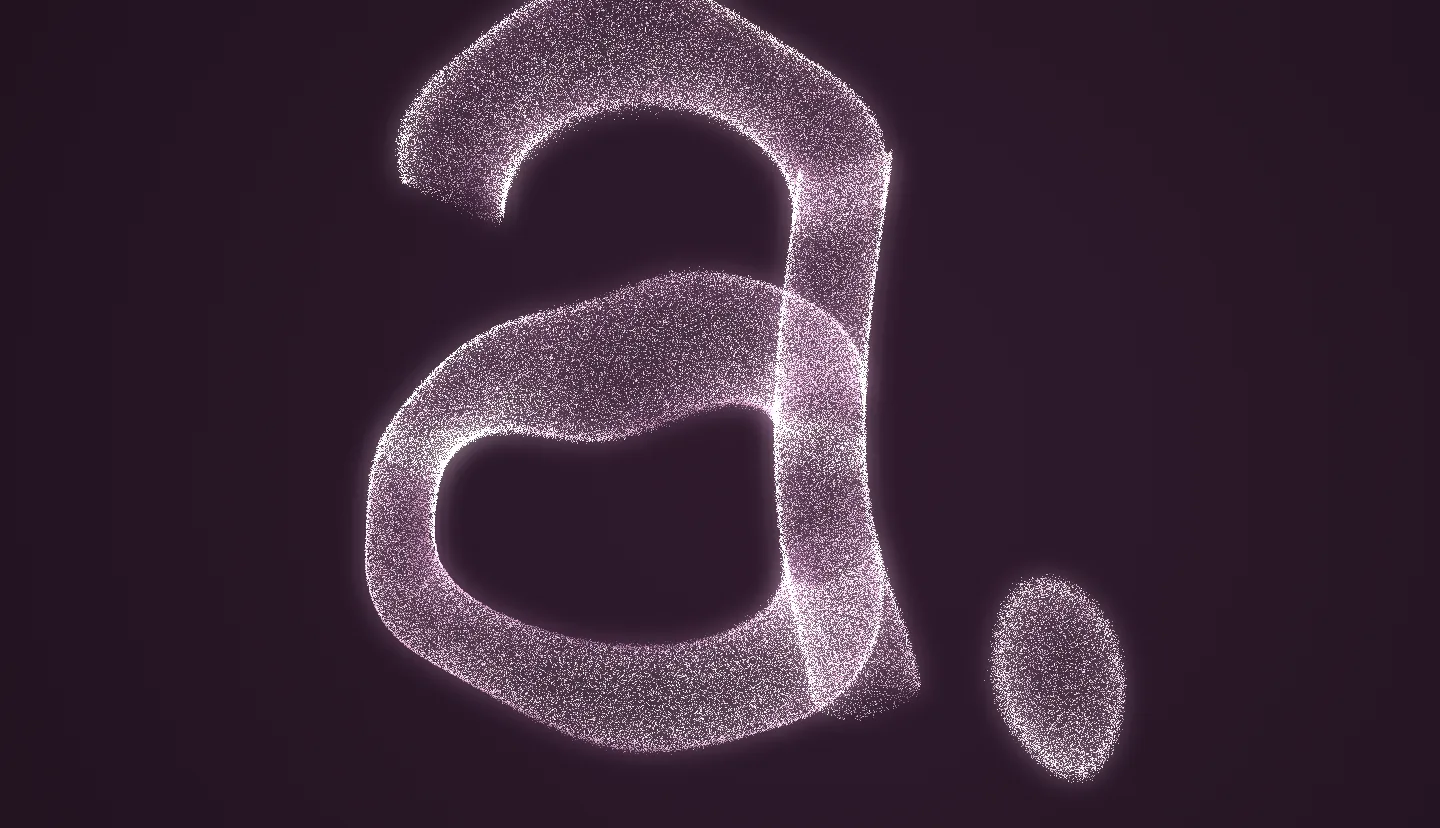
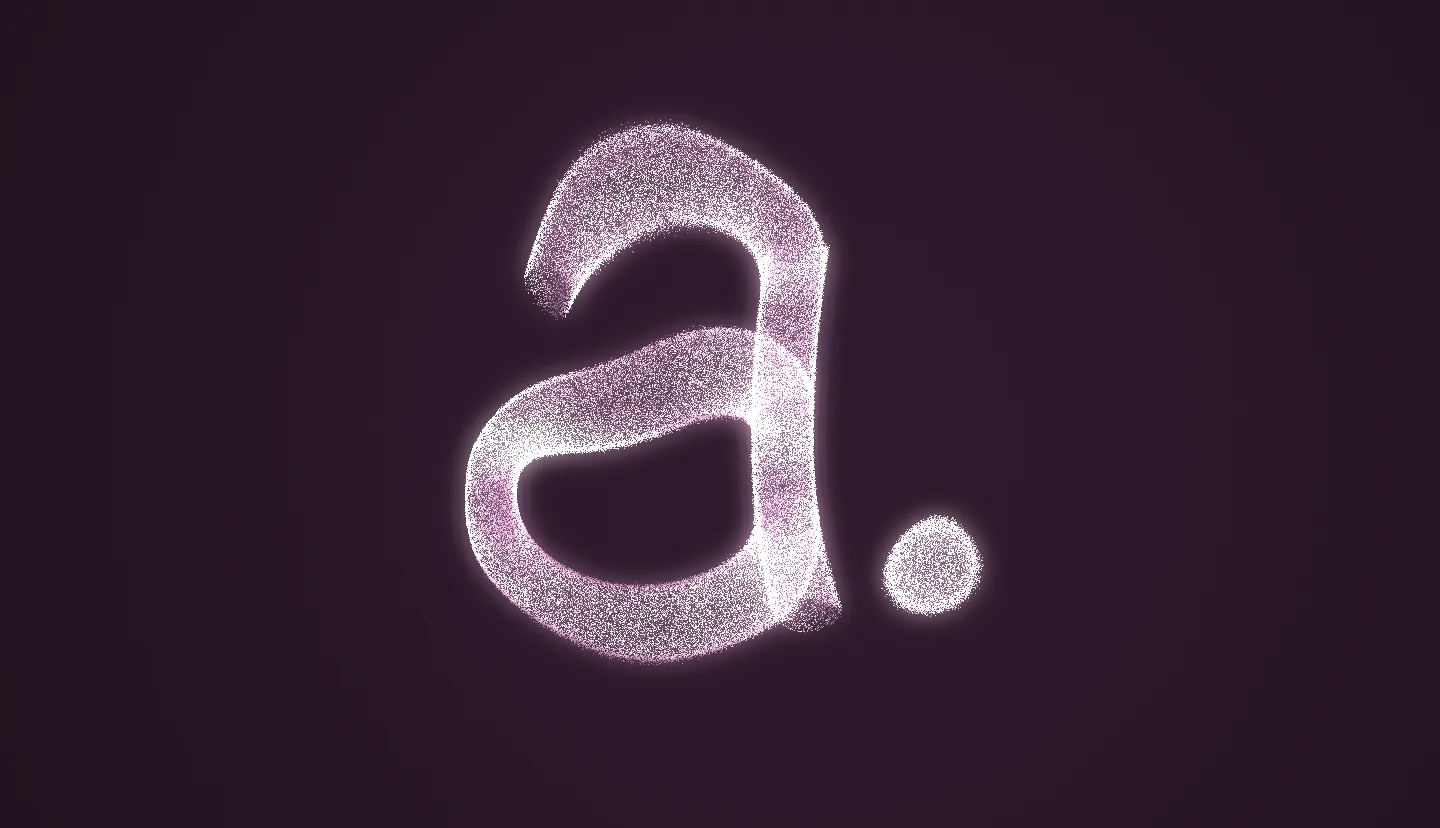
Particle Studio: stable orbit field, warm start, WebM by frame request, fallback layout
The orbit field relaxes toward the orbital speed instead of forcing it, so a galaxy holds at any step; short-lived emitters warm up
for five seconds before they show, so ink is a stream and not a blob; the WebM is recorded by requesting a frame after each draw
(VP8 first); the page's eyebrow is its h1; the no-WebGL2 page keeps its one column and sentence-case chip; the mark, Auckland,
murmuration and ink presets are reframed and retuned; the still is re-rendered.

Claude-Session: https://claude.ai/code/session_013PEcKa8wt7d7R9rwsuGB3T

Changed region(s): [[0.25, 0.0, 0.7812, 0.9662]]

diff --git a/instruments/particle-studio/main.js b/instruments/particle-studio/main.js
@@ -62,7 +62,7 @@ async function boot() {
     curTargets = null; setMorph(true);
     emitAnchors = ef.anchors;
     // a warm start when the emitters were reset: short-lived particles are spread along their paths, not one blob at the spout
-    if (warm && s.emitters.some((e) => e.life)) for (let i = 0; i < 70; i++) sim.step(1 / 30);
+    if (warm && s.emitters.some((e) => e.life)) for (let i = 0; i < 150; i++) sim.step(1 / 30);
     api.N = sim.N; $("#ps-stat-budget").textContent = s.budget === "auto" ? `auto · ${fmtN(sim.N)}` : `fixed · ${fmtN(sim.N)}`;
     if (reduce || paused) settle();
     placeHandles();
@@ -288,7 +288,8 @@ async function boot() {
   $("#x-copy-code").addEventListener("click", async () => { try { await navigator.clipboard.writeText(code); toast("Code copied"); } catch { toast("Could not reach the clipboard"); } });
   $("#x-dl-code").addEventListener("click", () => X.download(new Blob([code], { type: "text/javascript" }), `${X.slug(spec.name)}.design.js`));
   $$("[data-png]").forEach((b) => b.addEventListener("click", () => { const k = +b.dataset.png; placeCamera(sim.time); const cv = sim.still(k); cv.toBlob((blob) => { X.download(blob, `${X.slug(spec.name)}@${k}x.png`); toast(`PNG ${cv.width}×${cv.height} saved`); }, "image/png"); }));
-  $$("[data-webm]").forEach((b) => b.addEventListener("click", async () => { const s = +b.dataset.webm, rec = $("#x-rec"); rec.hidden = false; dlg.close(); try { const blob = await X.recordCanvas(canvas, s, (k) => (rec.textContent = `recording ${Math.round(k * s)} / ${s} s`)); X.download(blob, `${X.slug(spec.name)}-${s}s.webm`); toast("WebM saved"); } catch (e) { toast(e.message); } rec.hidden = true; }));
+  $$("[data-webm]").forEach((b) => b.addEventListener("click", async () => { const s = +b.dataset.webm, rec = $("#x-rec"); rec.hidden = false; dlg.close(); try { const blob = await X.recordCanvas(canvas, s, { onTick: (k) => (rec.textContent = `recording ${Math.round(k * s)} / ${s} s`), onFrame: (fn) => (afterDraw = fn) }); X.download(blob, `${X.slug(spec.name)}-${s}s.webm`); toast(`WebM saved (${(blob.size / 1e6).toFixed(1)} MB)`); } catch (e) { toast(e.message); } afterDraw = null; rec.hidden = true; }));
+  let afterDraw = null;
   let baked = { a: null, b: null };
   async function bake(slot) {
     const count = +$("#x-count").value; placeCamera(sim.time);
@@ -321,10 +322,11 @@ async function boot() {
     const dt = Math.min(1 / 30, Math.max(0.001, (now - last) / 1000)); last = now; frames++;   // a slow device slows the system down; it never blows up
     if (now - fpsT > 1000) { api.fps = Math.round(frames * 1000 / (now - fpsT)); $("#ps-stat-fps").textContent = paused || reduce ? "still" : `${api.fps} fps`; $("#ps-stat-n").textContent = `${fmtN(aliveEstimate())} points`; frames = 0; fpsT = now; }
     if (document.hidden || !spec) return;
+    if ((paused || reduce) && afterDraw) { sim.draw(); afterDraw(); }
     if (!paused && !reduce) {
       if (tl.playing && !tl.scrubbing) { tl.t += dt / spec.timeline.seconds; if (tl.t >= 1) tl.t = spec.timeline.loop ? tl.t - 1 : 1; scrub.value = Math.round(tl.t * 1000); }
       timeOut.value = `${(tl.t * spec.timeline.seconds).toFixed(1)} s`;
-      setMorph(); sim.step(dt); placeCamera(sim.time); sim.draw(); placeHandles();
+      setMorph(); sim.step(dt); placeCamera(sim.time); sim.draw(); placeHandles(); afterDraw?.();
       // the budget follows the frame time: halve when slow, climb when there is room (auto only, never under a fixed budget)
       ema = ema * 0.92 + dt * 1000 * 0.08;
       if (spec.budget === "auto" && !fixed && now - lastChange > 4000 && now > 5000) {
@@ -346,6 +348,7 @@ async function boot() {
   else if (shared) setSpec(shared, { reset: true });
   else setSpec(clone((presetById(params.get("preset")) || PRESETS[0]).spec), { reset: true });
   addEventListener("hashchange", async () => { const s = X.seedFromHash(location.hash); if (s != null) return setSpec(surprise(s), { reset: true }); const sh = await X.decodeShare(location.hash); if (sh) setSpec(sh, { reset: true }); });
+  api.seek = (t) => { tl.t = Math.min(1, Math.max(0, t)); scrub.value = Math.round(tl.t * 1000); setMorph(); if (paused || reduce) settle(150); };
   api.loadPreset = loadPreset; api.loadSurprise = loadSurprise; api.setCode = (c) => { editor.set(c); applyCode(c, true); }; api.ready = true;
   root.classList.add("ps-on");
   requestAnimationFrame(frame);

diff --git a/instruments/particle-studio/presets.js b/instruments/particle-studio/presets.js
@@ -14,7 +14,7 @@ export const PRESETS = [
     spec: { name: "Auckland ring", seed: 21, budget: "auto",
       emitters: [{ shape: { type: "ring", radius: 0.95, at: [0, 0.25, 0], thickness: 0.05, tilt: 0 }, jitter: 0.01 }],
       fields: [{ type: "attract", strength: 2.6, snap: 0.8 }, { type: "drag", amount: 1.2 }, { type: "curl", strength: 0.08, scale: 2.2, speed: 0.15 }, { type: "scan", speed: 0.08, width: 0.03, boost: 0.55, lift: 0 }],
-      look: look({ bloom: 0.62, size: 0.9 }), camera: cam({ distance: 4.1, height: 0.5, pitch: 0.66, path: "orbit", drift: 0.05 }),
+      look: look({ bloom: 0.62, size: 0.9 }), camera: cam({ distance: 4.1, height: 0.12, pitch: 0.66, path: "orbit", drift: 0.05 }),
       timeline: { seconds: 14, loop: 1, keys: [{ at: 0, target: { type: "ring", radius: 0.95, at: [0, 0.25, 0], thickness: 0.05, tilt: 0 } }, { at: 0.5, target: { type: "auckland", size: 2.1 } }] } } },
   { id: "galaxy", title: "Galaxy", line: "Three arms of stars turn about a bright core, slowly, with a few sparkles.",
     spec: { name: "Galaxy", seed: 1977, budget: "auto",
@@ -24,14 +24,14 @@ export const PRESETS = [
       timeline: { seconds: 20, loop: 1, keys: [{ at: 0, target: null }] } } },
   { id: "ink", title: "Ink in water", line: "A drop of ink unfolds in slow curling water, leaving trails.",
     spec: { name: "Ink in water", seed: 404, budget: "auto",
-      emitters: [{ shape: { type: "point", at: [0, 1.05, 0], spread: 0.05 }, life: [3, 7], jitter: 0.02, speed: 0.35 }],
-      fields: [{ type: "curl", strength: 0.55, scale: 1.6, speed: 0.12 }, { type: "gravity", dir: [0, -1, 0], strength: 0.08 }, { type: "drag", amount: 0.9 }, { type: "contain", radius: 1.6, softness: 0.6 }],
+      emitters: [{ shape: { type: "point", at: [0, 0.95, 0], spread: 0.18 }, rate: 0.7, life: [4, 9], jitter: 0.08, speed: 0.18 }],
+      fields: [{ type: "curl", strength: 0.7, scale: 1.4, speed: 0.1 }, { type: "gravity", dir: [0, -1, 0], strength: 0.07 }, { type: "drag", amount: 0.8 }, { type: "contain", radius: 1.6, softness: 0.6 }],
       look: look({ bloom: 0.7, trails: 0.78, size: 0.9, exposure: 1.05 }), camera: cam({ distance: 3.3, height: 0.5, path: "none", drift: 0.1 }),
       timeline: { seconds: 12, loop: 1, keys: [{ at: 0, target: null }] } } },
   { id: "murmuration", title: "Murmuration", line: "A flock that turns as one, on a coarse grid of neighbours (a light sketch of boids, not a full one).",
     spec: { name: "Murmuration", seed: 88, budget: 65536,
-      emitters: [{ shape: { type: "sphere", radius: 0.5, at: [0, 0.7, 0], shell: 0 }, speed: 0.4 }],
-      fields: [{ type: "flock", cohesion: 0.7, alignment: 1.1, separation: 1.3, radius: 0.1, speed: 0.75 }, { type: "curl", strength: 0.18, scale: 0.8, speed: 0.1 }, { type: "contain", radius: 1.3, softness: 0.5 }, { type: "well", at: [0, 0.65, 0], strength: 0.25, radius: 1.2 }],
+      emitters: [{ shape: { type: "sphere", radius: 0.6, at: [0, 0.6, 0], shell: 0 }, speed: 0.3 }],
+      fields: [{ type: "flock", cohesion: 0.5, alignment: 0.8, separation: 1.4, radius: 0.1, speed: 0.7 }, { type: "curl", strength: 0.22, scale: 0.7, speed: 0.12 }, { type: "turbulence", strength: 0.04, scale: 3 }, { type: "contain", radius: 1.25, softness: 0.5 }, { type: "well", at: [0, 0.6, 0], strength: 0.12, radius: 1.2 }],
       look: look({ bloom: 0.6, size: 1.25, sparkle: 0.015, trails: 0.3 }), camera: cam({ distance: 3.6, height: 0.6, path: "sweep", drift: 0.15 }),
       timeline: { seconds: 16, loop: 1, keys: [{ at: 0, target: null }] } } },
   { id: "fabric", title: "Fabric in wind", line: "A sheet pinned to its rest, lifted and rippled by a gusting wind.",

diff --git a/instruments/particle-studio/exporter.js b/instruments/particle-studio/exporter.js
@@ -101,13 +101,17 @@ export async function decodeShare(hash) {
 export const seedFromHash = (hash) => { const m = /(?:^|[#&])seed=(\d+)/.exec(hash); return m ? +m[1] : null; };
 
 // --- a short WebM of the canvas (MediaRecorder); resolves to a Blob
-export function recordCanvas(canvas, seconds, onTick) {
+// Frames are requested by hand after each draw (captureStream(0) + requestFrame), so the recording follows the real frame loop
+// whatever the browser decides a WebGL canvas has changed. `onFrame` receives the function to call after each draw.
+export function recordCanvas(canvas, seconds, { onTick, onFrame } = {}) {
   return new Promise((resolve, reject) => {
     if (!("MediaRecorder" in window) || !canvas.captureStream) return reject(new Error("This browser cannot record a canvas (MediaRecorder is missing)."));
-    const stream = canvas.captureStream(30), mime = ["video/webm;codecs=vp9", "video/webm;codecs=vp8", "video/webm"].find((m) => MediaRecorder.isTypeSupported(m)) || "";
-    const rec = new MediaRecorder(stream, { mimeType: mime || undefined, videoBitsPerSecond: 12_000_000 }), chunks = [];
+    const stream = canvas.captureStream(0), track = stream.getVideoTracks()[0], mime = ["video/webm;codecs=vp8", "video/webm;codecs=vp9", "video/webm"].find((m) => MediaRecorder.isTypeSupported(m)) || "";
+    const rec = new MediaRecorder(stream, { mimeType: mime || undefined, videoBitsPerSecond: 10_000_000 }), chunks = [];
     rec.ondataavailable = (e) => e.data.size && chunks.push(e.data); rec.onerror = (e) => reject(e.error || new Error("recording failed"));
-    rec.onstop = () => resolve(new Blob(chunks, { type: mime || "video/webm" }));
-    rec.start(250); const t0 = performance.now(); const tick = () => { const k = Math.min(1, (performance.now() - t0) / (seconds * 1000)); onTick?.(k); if (k < 1) requestAnimationFrame(tick); else rec.stop(); }; tick();
+    rec.onstop = () => { onFrame?.(null); track.stop(); resolve(new Blob(chunks, { type: mime || "video/webm" })); };
+    const request = () => { try { track.requestFrame?.(); } catch {} };
+    rec.start(250); onFrame?.(request); request();
+    const t0 = performance.now(); const tick = () => { const k = Math.min(1, (performance.now() - t0) / (seconds * 1000)); onTick?.(k); if (k < 1) requestAnimationFrame(tick); else rec.stop(); }; tick();
   });
 }

diff --git a/instruments/particle-studio/studio.css b/instruments/particle-studio/studio.css
@@ -8,6 +8,7 @@ body.site-v2 { display: flex; flex-direction: column; min-height: 100dvh; backgr
 .sr-only { position: absolute; width: 1px; height: 1px; overflow: hidden; clip: rect(0 0 0 0); white-space: nowrap; }
 
 .ps { position: relative; flex: 1 1 auto; min-height: 0; overflow: hidden; --pane: rgba(33, 18, 31, .72); --pane-line: rgba(249, 246, 242, .1); --r: 16px; }
+.ps [hidden] { display: none !important; }
 .ps-off { display: block; overflow: auto; }
 #ps-canvas { position: absolute; inset: 0; width: 100%; height: 100%; display: block; touch-action: none; cursor: grab; background: #21121F; }
 #ps-canvas:active { cursor: grabbing; }
@@ -24,7 +25,7 @@ body.site-v2 { display: flex; flex-direction: column; min-height: 100dvh; backgr
 .ps-top { position: absolute; top: 0; left: 0; right: 0; z-index: 5; display: flex; align-items: flex-start; justify-content: space-between; gap: 16px; padding: 18px 20px 0; pointer-events: none; }
 .ps-top > * { pointer-events: auto; }
 .ps-eyebrow { gap: 10px; }
-.ps-eyebrow .truth { margin-left: 4px; text-transform: none; letter-spacing: .02em; }
+.ps .v2-eyebrow .truth { margin-left: 4px; text-transform: none; letter-spacing: .02em; }
 .ps-name input { margin: 6px 0 0 -6px; padding: 2px 6px; border: 0; border-radius: 8px; background: transparent; color: var(--v2-ivory); font: 400 clamp(22px, 2.4vw, 30px)/1.1 var(--v2-font); letter-spacing: -.03em; width: min(46vw, 460px); }
 .ps-name input:hover { background: rgba(249, 246, 242, .05); }
 .ps-name input:focus-visible { outline: 2px solid var(--v2-rose); outline-offset: 2px; background: rgba(249, 246, 242, .06); }
@@ -167,7 +168,8 @@ body.site-v2 { display: flex; flex-direction: column; min-height: 100dvh; backgr
 #ps-play[aria-pressed="false"] .i-play { display: block; }
 #ps-play[aria-pressed="false"] .i-pause { display: none; }
 .ps-status { grid-area: status; justify-self: end; display: flex; gap: 14px; font-size: 11px; letter-spacing: .02em; color: var(--v2-mauve-on-dark); }
-.ps-note { grid-area: note; margin: 0; font-size: 11.5px; line-height: 1.4; max-width: 72ch; }
+.ps-note { margin: 0; font-size: 11.5px; line-height: 1.4; max-width: 72ch; }
+.ps-bar .ps-note { grid-area: note; }
 
 /* phone tabs */
 .ps-tabs { display: none; }

diff --git a/instruments/particle-studio/index.html b/instruments/particle-studio/index.html
@@ -26,7 +26,7 @@
 
   <header class="ps-top">
     <div class="ps-title">
-      <p class="v2-eyebrow v2-eyebrow-dot ps-eyebrow">Particle Studio <span class="truth" data-k="ill">Illustrative</span></p>
+      <h1 class="v2-eyebrow v2-eyebrow-dot ps-eyebrow">Particle Studio <span class="truth" data-k="ill">Illustrative</span></h1>
       <label class="ps-name"><span class="sr-only">Design name</span><input id="ps-name" type="text" maxlength="60" value="Untitled" autocomplete="off" spellcheck="false"></label>
     </div>
     <div class="ps-actions" role="toolbar" aria-label="Studio">
@@ -115,7 +115,7 @@
   <div class="ps-nogl" id="ps-nogl" hidden>
     <div class="ps-nogl-in">
       <p class="v2-eyebrow v2-eyebrow-dot">Particle Studio <span class="truth" data-k="ill">Illustrative</span></p>
-      <h1 class="v2-h3">This studio needs WebGL2</h1>
+      <h2 class="v2-h3">This studio needs WebGL2</h2>
       <p class="v2-body">The simulation runs a million particles on the graphics card through WebGL2 render-to-texture, which this browser does not offer. Here is a still of the default design, the mark assembling from a scatter. The code and the presets are readable on a device with WebGL2.</p>
       <img src="still.webp" alt="A still from Particle Studio: the assembl mark as a dense cloud of plum, rose and ivory points, a few sparkling, on a deep plum ground." width="1440" height="900">
       <p class="ps-note v2-secondary">Everything stays on your device: no uploads, no analytics, no accounts.</p>
